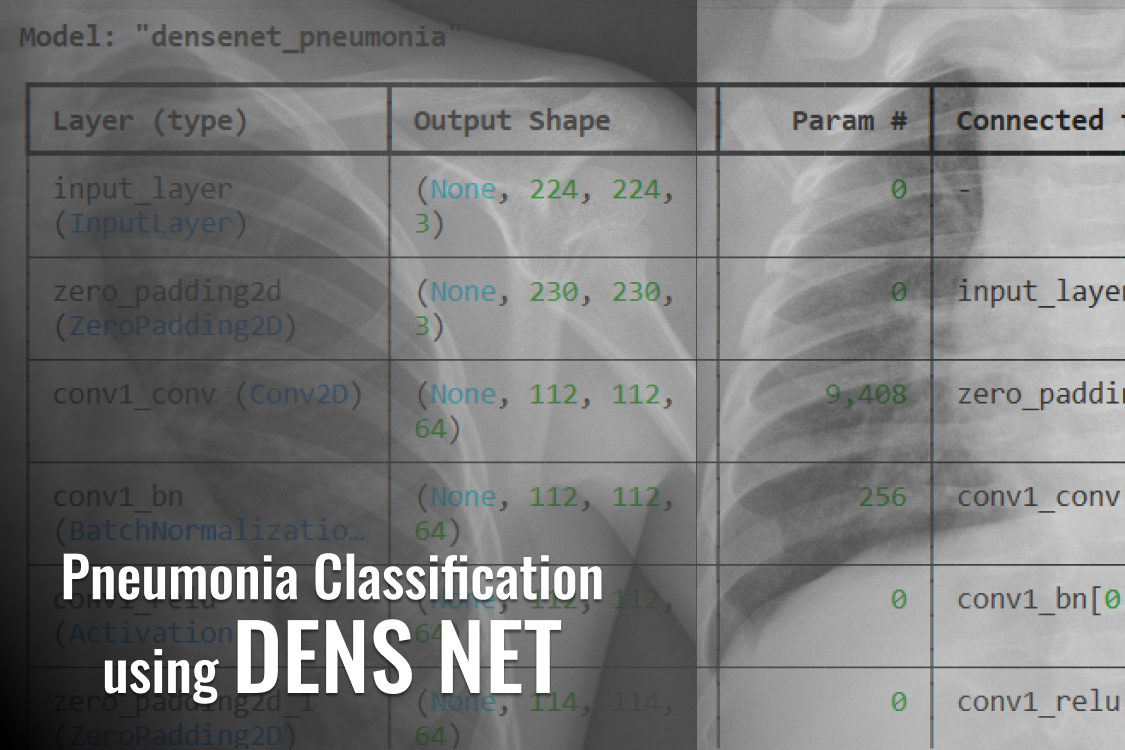
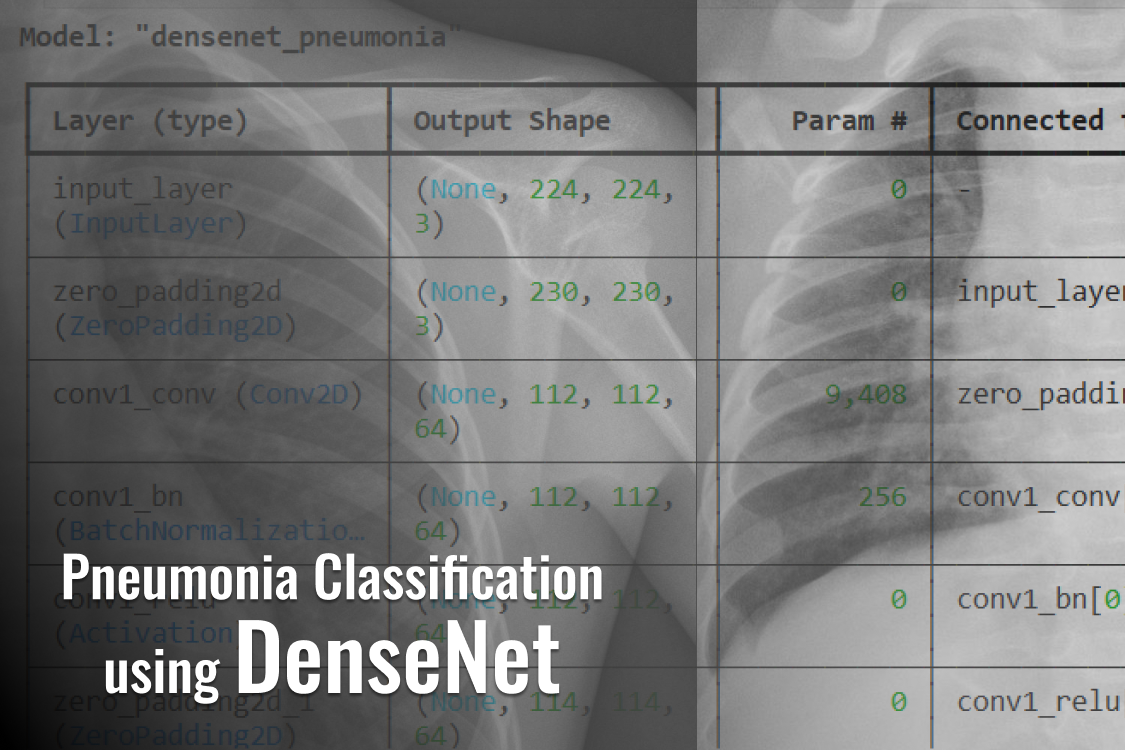
most projects added

Changed region(s): [[0.0933, 0.828, 0.4978, 0.9507]]

diff --git a/index.html b/index.html
@@ -289,10 +289,74 @@
                 <div class="project-content">
                     <h3>Diabetes Readmission Prediction using Machine Learning</h3>
                     <hr>
-                    <p>Built a machine learning model to predict hospital readmission risk in diabetic patients using clinical and demographic data, enabling early identification of high-risk cases and supporting improved patient care and reduced healthcare costs.</p>
+                    <p>Built a machine learning model to predict hospital readmission risk in diabetic patients using
+                        clinical and demographic data, enabling early identification of high-risk cases and supporting
+                        improved patient care and reduced healthcare costs.</p>
                     <div class="project-bottom">
                         <span>2025</span>
-                        <a href="https://github.com/Surakshajain06/Diabetic-readmission-prediction-for-high-sensitivity-cleaning">View
+                        <a
+                            href="https://github.com/Surakshajain06/Diabetic-readmission-prediction-for-high-sensitivity-cleaning">View
+                            Project</a>
+                    </div>
+                </div>
+            </div>
+
+            <div class="project-card">
+                <img src="images/tn7.png">
+                <div class="project-content">
+                    <h3>ECG Signal Classification using Autoencoder-Based Feature Extraction</h3>
+                    <hr>
+                    <p>Developed a deep learning pipeline using a 1D convolutional autoencoder to extract compact
+                        features from ECG signals, followed by machine learning classifiers (Random Forest/XGBoost) to
+                        accurately classify normal and abnormal heartbeats based on AAMI standards, improving noise
+                        handling and arrhythmia detection efficiency</p>
+                    <div class="project-bottom">
+                        <span>2025</span>
+                        <a href="https://github.com/Surakshajain06/ECG-Classification-using-Autoencoder">View
+                            Project</a>
+                    </div>
+                </div>
+            </div>
+            <div class="project-card">
+                <img src="images/tn8.png">
+                <div class="project-content">
+                    <h3>MNIST Handwritten Digit Classification using CNN</h3>
+                    <hr>
+                    <p>Designed and trained a Convolutional Neural Network (CNN) to accurately recognize handwritten
+                        digits from the MNIST dataset, leveraging deep learning techniques like ReLU activation, max
+                        pooling, and dropout for efficient feature extraction and robust classification.</p>
+                    <div class="project-bottom">
+                        <span>2025</span>
+                        <a href="https://github.com/Surakshajain06/MNIST-Handwritten-Digit-Classifier">View
+                            Project</a>
+                    </div>
+                </div>
+            </div>
+
+            <div class="project-card">
+                <img src="images/tn2.png">
+                <div class="project-content">
+                    <h3>Rehabilitation Lift for Parkinsonism</h3>
+                    <hr>
+                    <p>Developed a novel rehabilitation concept for the upper body of Parkinsonism patients, utilizing
+                        mechanical principles involving gears and linear actuators to enable controlled front-back and
+                        side-to-side movements.</p>
+                    <div class="project-bottom">
+                        <span>2025</span>
+                        <a href="https://github.com/Surakshajain06/RehabilitationLift">View
+                            Project</a>
+                    </div>
+                </div>
+            </div>
+            <div class="project-card">
+                <img src="images/tn9.png">
+                <div class="project-content">
+                    <h3>Virtual Rebirth of Konark Sun Temple (VR)</h3>
+                    <hr>
+                    <p>Built a Unity‐based mobile VR experience with an ATmega328P+HC‐05 based universal handheld controller for navigating in the 3D space. Reconstruction of Konark sun temple of Odisha</p>
+                    <div class="project-bottom">
+                        <span>2024</span>
+                        <a href="https://konark.netlify.app/">View
                             Project</a>
                     </div>
                 </div>
@@ -304,6 +368,7 @@
 
     <!-- FOOTER -->
     <footer>
+        <p>mail me at <a href="surakshajain06@gmail.com">surakshajain06@gmail.com</a></p>
         <p>© 2026 K S Suraksha Jain | All Rights Reserved</p>
     </footer>
 
